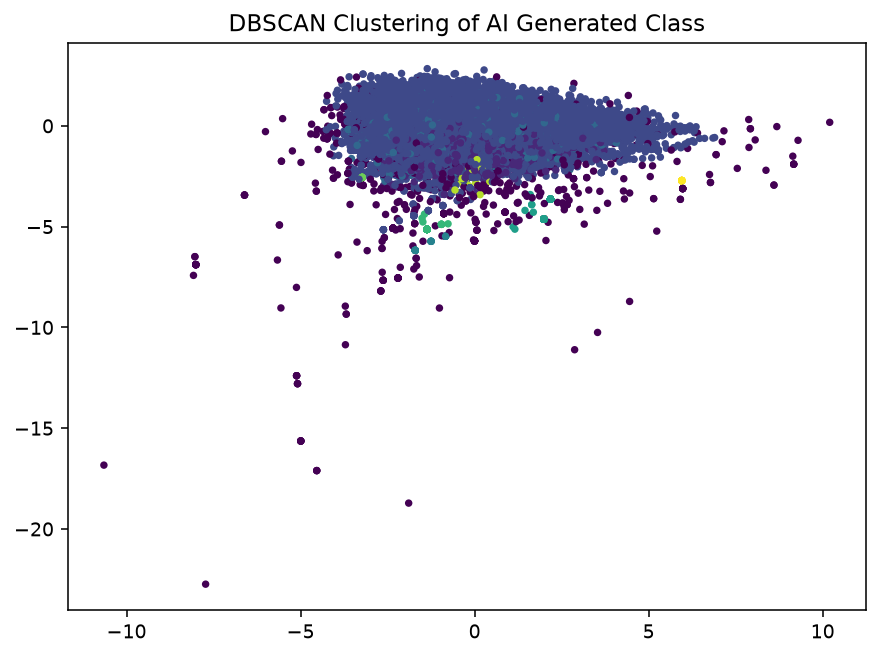
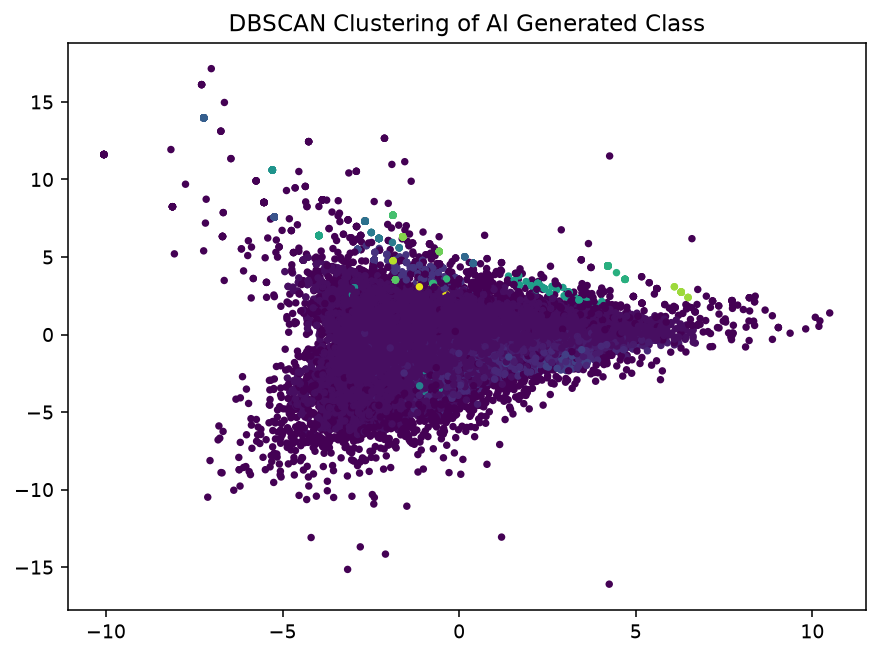
Updates charts with fixed dataset, finished dbscan (with 150k sample) left kmeans mostly untouched aside from updated data.

diff --git a/clustering/clusteringKmeans.py b/clustering/clusteringKmeans.py
@@ -11,7 +11,7 @@ from sklearn.decomposition import PCA
 pd.set_option('display.max_columns', 120)
 pd.set_option('display.width', 160)
 
-DATASET = "C:/Users/lollo/Documents/School/Comp tech/Assignment2/clean_dataset.csv"
+DATASET = "C:/Users/lollo/Documents/School/Comp tech/Assignment2/final_dataset.csv"
 essays = pd.read_csv(DATASET)
 
 # print(essays.head(10))
@@ -35,23 +35,24 @@ def save(name, dpi=140):
     
 
 ai_gen_essays = essays[essays['label'] == 1].copy()
-ai_gen_essays = ai_gen_essays.drop(columns=['numeric_digit_ratio']) # Over 75% of sentences had 0 numeric usage so not meaningful for clustering
-ai_gen_essays = ai_gen_essays.reset_index(drop=True) # reset indexs to be correct after splitting classes
-ai_gen_essays = ai_gen_essays.drop(index=[380526, 441145, 484810, 509270, 512775, 514742])    # drop extreme outlier row
-ai_gen_essays = ai_gen_essays.reset_index(drop=True)
-# print("shape:", ai_gen_essays.shape) # (534481, 18)
+# print("shape:", ai_gen_essays.shape) 
 
 # | Data Check |
 
 # print(ai_gen_essays['upper_letter_ratio'].describe())
-# print(ai_gen_essays['numeric_digit_ratio'].describe())
-# print(ai_gen_essays['avg_word_len'].describe()) # Only one huge outlier with max 307 length word. Average was between 5-6 characters per word
+# print(ai_gen_essays['ai_tell_count'].describe())
+# print(ai_gen_essays['rep_bigram'].describe())
+# print(ai_gen_essays['char_entropy'].describe())
+# print(ai_gen_essays['semicolon_dash_count'].describe())
+# print(ai_gen_essays['avg_word_len'].describe()) 
+# print((ai_gen_essays['rep_bigram'] > 0).mean())
+# print((ai_gen_essays['semicolon_dash_count'] > 0).mean())
 
 # | Initial Test to find K - Including char_count and word_count Features |
 
 # FEATURES = ['char_count', 'word_count', 'avg_word_len', 'vocab_div_ratio', 
 #             'complex_word_ratio', 'stopword_ratio', 'semicolon_dash_count', 
-#             'upper_letter_ratio', 'is_first_sent', 'is_last_sent']
+#             'upper_letter_ratio', 'char_entropy', 'rep_bigram']
 # X = ai_gen_essays[FEATURES]
 
 # raw = KMeans(3, n_init=10, random_state=42).fit_predict(X)
@@ -60,8 +61,8 @@ ai_gen_essays = ai_gen_essays.reset_index(drop=True)
 
 
 
-# print("without scaling", np.bincount(raw)) # [279503 228427  26551] - Highly imbalanced raw counts, likely char_count or word_count taking over
-# print("with scaling ", np.bincount(scaled)) # [210111 129779 194591]
+# print("without scaling", np.bincount(raw)) # [248667 206685  20717] - Highly imbalanced raw counts, likely char_count or word_count taking over
+# print("with scaling ", np.bincount(scaled)) # [118767 176007 181295]
 
 # inertias = []
 # sils = []
@@ -96,50 +97,58 @@ ai_gen_essays = ai_gen_essays.reset_index(drop=True)
 # | Final X - Removal of aforementioned 2 Features for Better Clustering |
 
 FEATURES_V2 = ['avg_word_len', 'vocab_div_ratio', 'complex_word_ratio', 'stopword_ratio',
-               'semicolon_dash_count', 'upper_letter_ratio', 'is_first_sent', 'is_last_sent']
+               'semicolon_dash_count', 'upper_letter_ratio', 'char_entropy', 'rep_bigram']
 X_V2 = ai_gen_essays[FEATURES_V2]
 
 X_V2_scaled = StandardScaler().fit_transform(X_V2)
 
 # | Elbow Method vs Silhouette Score to find K |
 
-inertias_V2 = []
-sils_V2 = []
-k_range = range(2, 11)
+# inertias_V2 = []
+# sils_V2 = []
+# k_range = range(2, 11)
 
-for k in k_range:
-    print(k)
-    kmeans = KMeans(n_clusters=k, random_state=42)
-    labels = kmeans.fit_predict(X_V2_scaled)
-    inertias_V2.append(kmeans.inertia_)
-    sils_V2.append(silhouette_score(X_V2_scaled, labels, sample_size=20000, random_state=42))
+# for k in k_range:
+#     print(k)
+#     kmeans = KMeans(n_clusters=k, random_state=42)
+#     labels = kmeans.fit_predict(X_V2_scaled)
+#     inertias_V2.append(kmeans.inertia_)
+#     sils_V2.append(silhouette_score(X_V2_scaled, labels, sample_size=20000, random_state=42))
     
 # | Plots for Elbow vs Silhouette Score |
     
-fig, ax1 = plt.subplots(figsize=(6, 4))
+# fig, ax1 = plt.subplots(figsize=(6, 4))
 
-# y-axis: Inertia - Elbow Method
-ax1.plot(k_range, inertias_V2, 'bo-', label='Inertia (Elbow)')
-ax1.set_xlabel('Number of Clusters k')
-ax1.set_ylabel('Inertia', color='b')
-ax1.tick_params(axis='y', labelcolor='b')
+# # y-axis: Inertia - Elbow Method
+# ax1.plot(k_range, inertias_V2, 'bo-', label='Inertia (Elbow)')
+# ax1.set_xlabel('Number of Clusters k')
+# ax1.set_ylabel('Inertia', color='b')
+# ax1.tick_params(axis='y', labelcolor='b')
 
-# Secondary y-axis: Silhouette Score
-ax2 = ax1.twinx()
-ax2.plot(k_range, sils_V2, 'go-', label='Silhouette Score')
-ax2.set_ylabel('Silhouette Score', color='g')
-ax2.tick_params(axis='y', labelcolor='g')
+# # Secondary y-axis: Silhouette Score
+# ax2 = ax1.twinx()
+# ax2.plot(k_range, sils_V2, 'go-', label='Silhouette Score')
+# ax2.set_ylabel('Silhouette Score', color='g')
+# ax2.tick_params(axis='y', labelcolor='g')
 
-# Title and layout
-plt.title('Elbow Method vs. Silhouette Score')
-save("Elbow_vs_Silhouette_V2.png")
+# # Title and layout
+# plt.title('Elbow Method vs. Silhouette Score')
+# save("Elbow_vs_Silhouette_V2.png")
 
 # | Test of k to check peak Silhouette score |
 
-model = KMeans(n_clusters=5, random_state=42)
-pred_labels = model.fit_predict(X_V2_scaled)
-sil_score = silhouette_score(X_V2_scaled, pred_labels, sample_size=20000, random_state=42)
-print("Silhouette Score:", sil_score) # Silhouette Score: 0.2858227707469055
+# model = KMeans(n_clusters=6, random_state=42)
+# pred_labels = model.fit_predict(X_V2_scaled)
+# sil_score = silhouette_score(X_V2_scaled, pred_labels, sample_size=20000, random_state=42)
+# print("Silhouette Score:", sil_score) # Silhouette Score:  0.2592969154434338
+
+# | Check validity of Clusters depending on K |
+# for k in [2, 5, 6]:
+#     test = KMeans(k, n_init=10, random_state=42).fit_predict(X_V2_scaled)
+#     print(f"\n k={k}", np.bincount(test))    
+#  k=2 [268752 207317]
+#  k=5 [ 41407 220837  40695  23443 149687]
+#  k=6 [ 40593 217096  40585  29473 146015   2307]
 
 # | Cluster Plot & Cluster Descirptions |
 
@@ -159,12 +168,6 @@ plt.scatter(P[:, 0], P[:, 1], c=labels, s=8, cmap="viridis")
 plt.title('Clustering of AI Generated Class')
 save("Cluster_Plot.png")
 
-# | Figure out where the extreme outlier is coming from |
-
-# outlier_positions = np.where(P[:, 0] > 100)
-# print(outlier_positions) # [380526]
-# print(ai_gen_essays.iloc[380526]['text'])
-# print(ai_gen_essays.iloc[380526][FEATURES_V2])
 
 # | Sentence Examples From Each Cluster |
 
@@ -173,3 +176,6 @@ for c in sorted(ai_gen_essays.cluster.unique()):
     examples = ai_gen_essays[ai_gen_essays.cluster == c]['text'].sample(5, random_state=42)
     for e in examples:
         print("-", e)
+        
+
+# | Check Clusters after being ctaegorized against their prompt/source |

diff --git a/clustering/clusteringDBSCAN.py b/clustering/clusteringDBSCAN.py
@@ -12,7 +12,7 @@ from sklearn.decomposition import PCA
 pd.set_option('display.max_columns', 120)
 pd.set_option('display.width', 160)
 
-DATASET = "C:/Users/lollo/Documents/School/Comp tech/Assignment2/clean_dataset.csv"
+DATASET = "C:/Users/lollo/Documents/School/Comp tech/Assignment2/final_dataset.csv"
 essays = pd.read_csv(DATASET)
 
 # print(essays.head(10))
@@ -36,15 +36,11 @@ def save(name, dpi=140):
     
 
 ai_gen_essays = essays[essays['label'] == 1].copy()
-ai_gen_essays = ai_gen_essays.drop(columns=['numeric_digit_ratio']) # Over 75% of sentences had 0 numeric usage so not meaningful for clustering
-ai_gen_essays = ai_gen_essays.reset_index(drop=True) # reset indexs to be correct after splitting classes
-ai_gen_essays = ai_gen_essays.drop(index=[380526, 441145, 484810, 509270, 512775, 514742])    # drop extreme outlier row
-ai_gen_essays = ai_gen_essays.reset_index(drop=True)
-# print("shape:", ai_gen_essays.shape) # (534481, 18)
 
+# | Final X |
 
 FEATURES_V2 = ['avg_word_len', 'vocab_div_ratio', 'complex_word_ratio', 'stopword_ratio',
-               'semicolon_dash_count', 'upper_letter_ratio', 'is_first_sent', 'is_last_sent']
+               'semicolon_dash_count', 'upper_letter_ratio', 'char_entropy', 'rep_bigram']
 X_V2 = ai_gen_essays[FEATURES_V2]
 
 X_V2_scaled = StandardScaler().fit_transform(X_V2)
@@ -53,10 +49,40 @@ X_V2_scaled = StandardScaler().fit_transform(X_V2)
 # distance, _ = nearneigh.kneighbors(X_V2_scaled)
 
 # plt.plot(np.sort(distance[:, -1]))
+# plt.ylim(0, 4)
 # # plt.axhline(0.3, color="pink", ls="--")
 # plt.xlabel("points, sorted by distance to their 16th neighbour")
 # plt.ylabel("distance")
 # save("init_k_distance.png")
+
+# | Test For Best Epsilon Number | 
+
+# X_test_sample = X_V2_scaled[np.random.RandomState(42).choice(len(X_V2_scaled), 50000, replace=False)]
+
+# for eps in [0.5, 0.8, 1, 1.3 , 1.5]:
+#     print(f"eps={eps}: ")
+#     test = DBSCAN(eps=eps, min_samples=16).fit_predict(X_test_sample)
+#     n_clusters = len(set(test)) - (1 if -1 in test else 0)
+#     noise = list(test).count(-1)
+#     print(f"Found {n_clusters} clusters.")
+#     print(f"Noise is: {noise} ({noise/len(test):.1%})")
+    
+# | Results | 
+# eps=0.5: 
+# Found 17 clusters.
+# Noise is: 15226 (30.5%)
+# eps=0.8: 
+# Found 13 clusters.
+# Noise is: 4652 (9.3%)
+# eps=1:  Picking 1 for its reasonable noise % and cluster count.
+# Found 13 clusters.
+# Noise is: 2413 (4.8%)
+# eps=1.3: 
+# Found 10 clusters.
+# Noise is: 1118 (2.2%)
+# eps=1.5: 
+# Found 11 clusters.
+# Noise is: 721 (1.4%)    
 
 # | Check Outliers & Their Validity | 
 # print(np.sort(distance[:, -1])[-30:])
@@ -71,36 +97,53 @@ X_V2_scaled = StandardScaler().fit_transform(X_V2)
 
 # | DBSCAN Clustering :D | 
 
-db = DBSCAN(eps=1, min_samples=16).fit_predict(X_V2_scaled)
+sample = np.random.RandomState(42).choice(len(X_V2_scaled), 150000, replace=False)
+X_Sample =  X_V2_scaled[sample]
+
+sample_set = ai_gen_essays.iloc[sample].copy().reset_index(drop=True)
+
+print(X_Sample.shape, len(sample_set))
+
+db = DBSCAN(eps=1, min_samples=16).fit_predict(X_Sample)
 n_clusters = len(set(db)) - (1 if -1 in db else 0)
 noise = list(db).count(-1)
 
 print(f"Found {n_clusters} clusters.")
-print(f"Noise is: {noise} ({noise/len(db):.0%})")
+print(f"Noise is: {noise} ({noise/len(db):.1%})")
 
-ai_gen_essays['dbscan_cluster'] = db
+sample_set['dbscan_cluster'] = db
 
-overall, spread = X_V2.mean(), X_V2.std()
-for c in sorted(ai_gen_essays.dbscan_cluster.unique()):
-    g = ai_gen_essays[ai_gen_essays.dbscan_cluster == c]
-    z = (g[FEATURES_V2].mean() - overall) / spread # in standard deviations
-    label = "NOISE" if c == -1 else f"cluster {c}" # decide whether actual cluster or noise
-    print(f"\n{label} n={len(g)}")
-    print(" more:", z.nlargest(2).round(2).to_dict())
-    print(" less:", z.nsmallest(2).round(2).to_dict())
+# overall, spread = X_V2.mean(), X_V2.std()
+# for c in sorted(sample_set.dbscan_cluster.unique()):
+#     g = sample_set[sample_set.dbscan_cluster == c]
+#     z = (g[FEATURES_V2].mean() - overall) / spread # in standard deviations
+#     label = "NOISE" if c == -1 else f"cluster {c}" # decide whether actual cluster or noise
+#     print(f"\n{label} n={len(g)}")
+#     print(" more:", z.nlargest(2).round(2).to_dict())
+#     print(" less:", z.nsmallest(2).round(2).to_dict())
     
 
-P = PCA(n_components=2, random_state=42).fit_transform(X_V2_scaled)
-plt.scatter(P[:, 0], P[:, 1], c=db, s=8, cmap="viridis")
-plt.title('DBSCAN Clustering of AI Generated Class')
-save("DBSCAN_Cluster_Plot.png")
+# P = PCA(n_components=2, random_state=42).fit_transform(X_Sample)
+# plt.scatter(P[:, 0], P[:, 1], c=db, s=8, cmap="viridis")
+# plt.title('DBSCAN Clustering of AI Generated Class')
+# save("DBSCAN_Cluster_Plot.png")
 
 
 # | Sentence Examples From Each Cluster |
 
-for c in sorted(ai_gen_essays.dbscan_cluster.unique()):
-    label = "NOISE" if c == -1 else f"cluster {c}" # decide whether actual cluster or noise
-    print(f"\n {label} Examples:")
-    examples = ai_gen_essays[ai_gen_essays.dbscan_cluster == c]['text'].sample(5, random_state=42)
-    for e in examples:
-        print("-", e)
+# for c in sorted(sample_set.dbscan_cluster.unique()):
+#     g = sample_set[sample_set.dbscan_cluster == c]
+#     label = "NOISE" if c == -1 else f"cluster {c}" # decide whether actual cluster or noise
+#     print(f"\n {label} Examples:")
+#     examples = sample_set[sample_set.dbscan_cluster == c]['text'].sample(min(5, len(g)), random_state=42)
+#     for e in examples:
+#         print("-", e)
+
+# | Silhouette Score For DBSCAN |
+
+no_noise = db != -1
+sil_score = silhouette_score(X_Sample[no_noise], db[no_noise], sample_size=20000, random_state=42)
+print(f"Silhouette Score (No Noise): {sil_score:.3f}") # Silhouette Score (No Noise): 0.201
+
+sil_score = silhouette_score(X_Sample, db, sample_size=20000, random_state=42)
+print(f"Silhouette Score (Noise): {sil_score:.3f}") # Silhouette Score (Noise): 0.188
